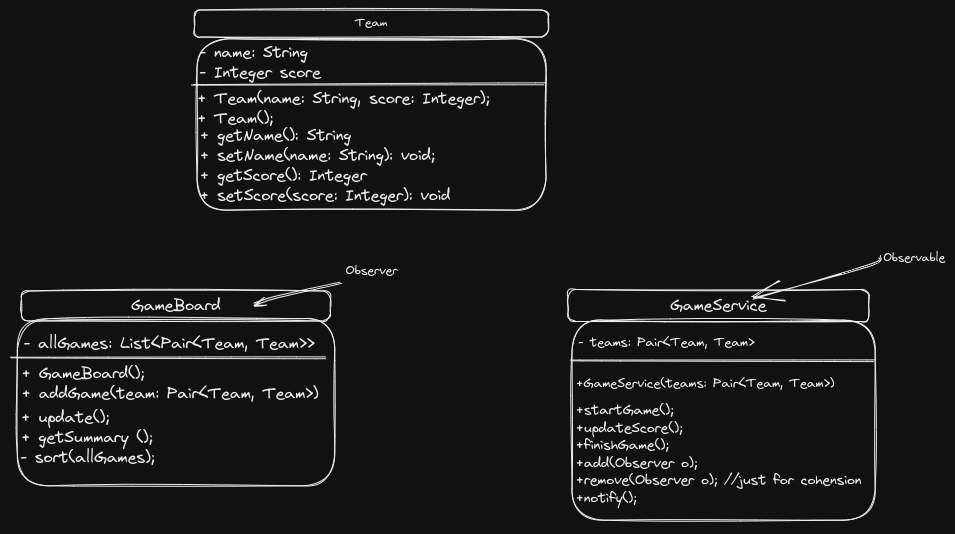
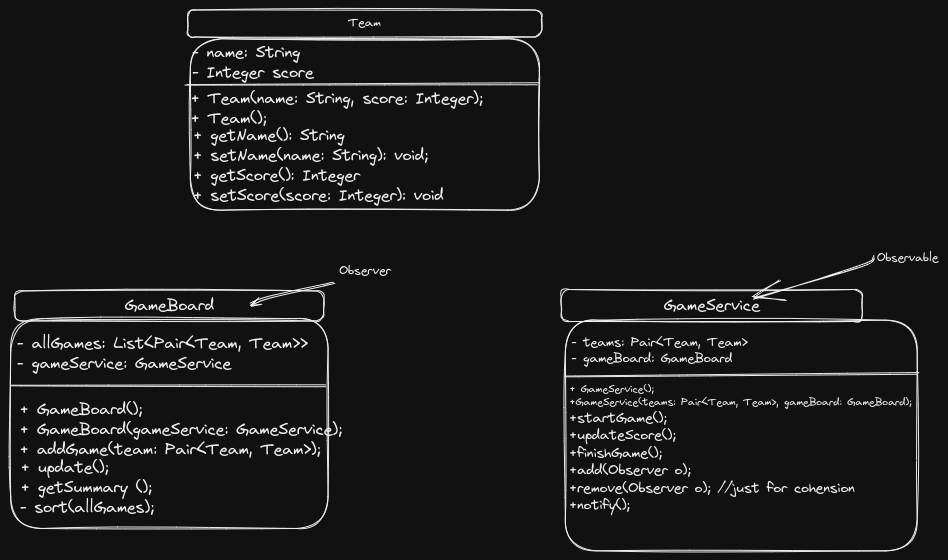
Test for creating GameService with arguments

diff --git a/src/test/java/com/pawel/excercise/sportradar/gameboard/service/GameServiceTest.java b/src/test/java/com/pawel/excercise/sportradar/gameboard/service/GameServiceTest.java
@@ -1,6 +1,8 @@
 package com.pawel.excercise.sportradar.gameboard.service;
 
+import com.pawel.excercise.sportradar.gameboard.domain.Team;
 import org.junit.jupiter.api.Test;
+import org.springframework.data.util.Pair;
 
 public class GameServiceTest {
 
@@ -8,4 +10,16 @@ public class GameServiceTest {
     void shouldBeAbleToCreateNewGameService() {
         GameService gameService = new GameService();
     }
+
+    @Test
+    void shouldBeAbleToCreateGameServiceWithDependencies() {
+        Team polishTeam = new Team();
+        Team germanTeam = new Team();
+        Pair<Team, Team> game = Pair.of(polishTeam, germanTeam);
+
+        GameBoard gameBoard = new GameBoard();
+
+        GameService gameService = new GameService(game, gameBoard);
+    }
+
 }
